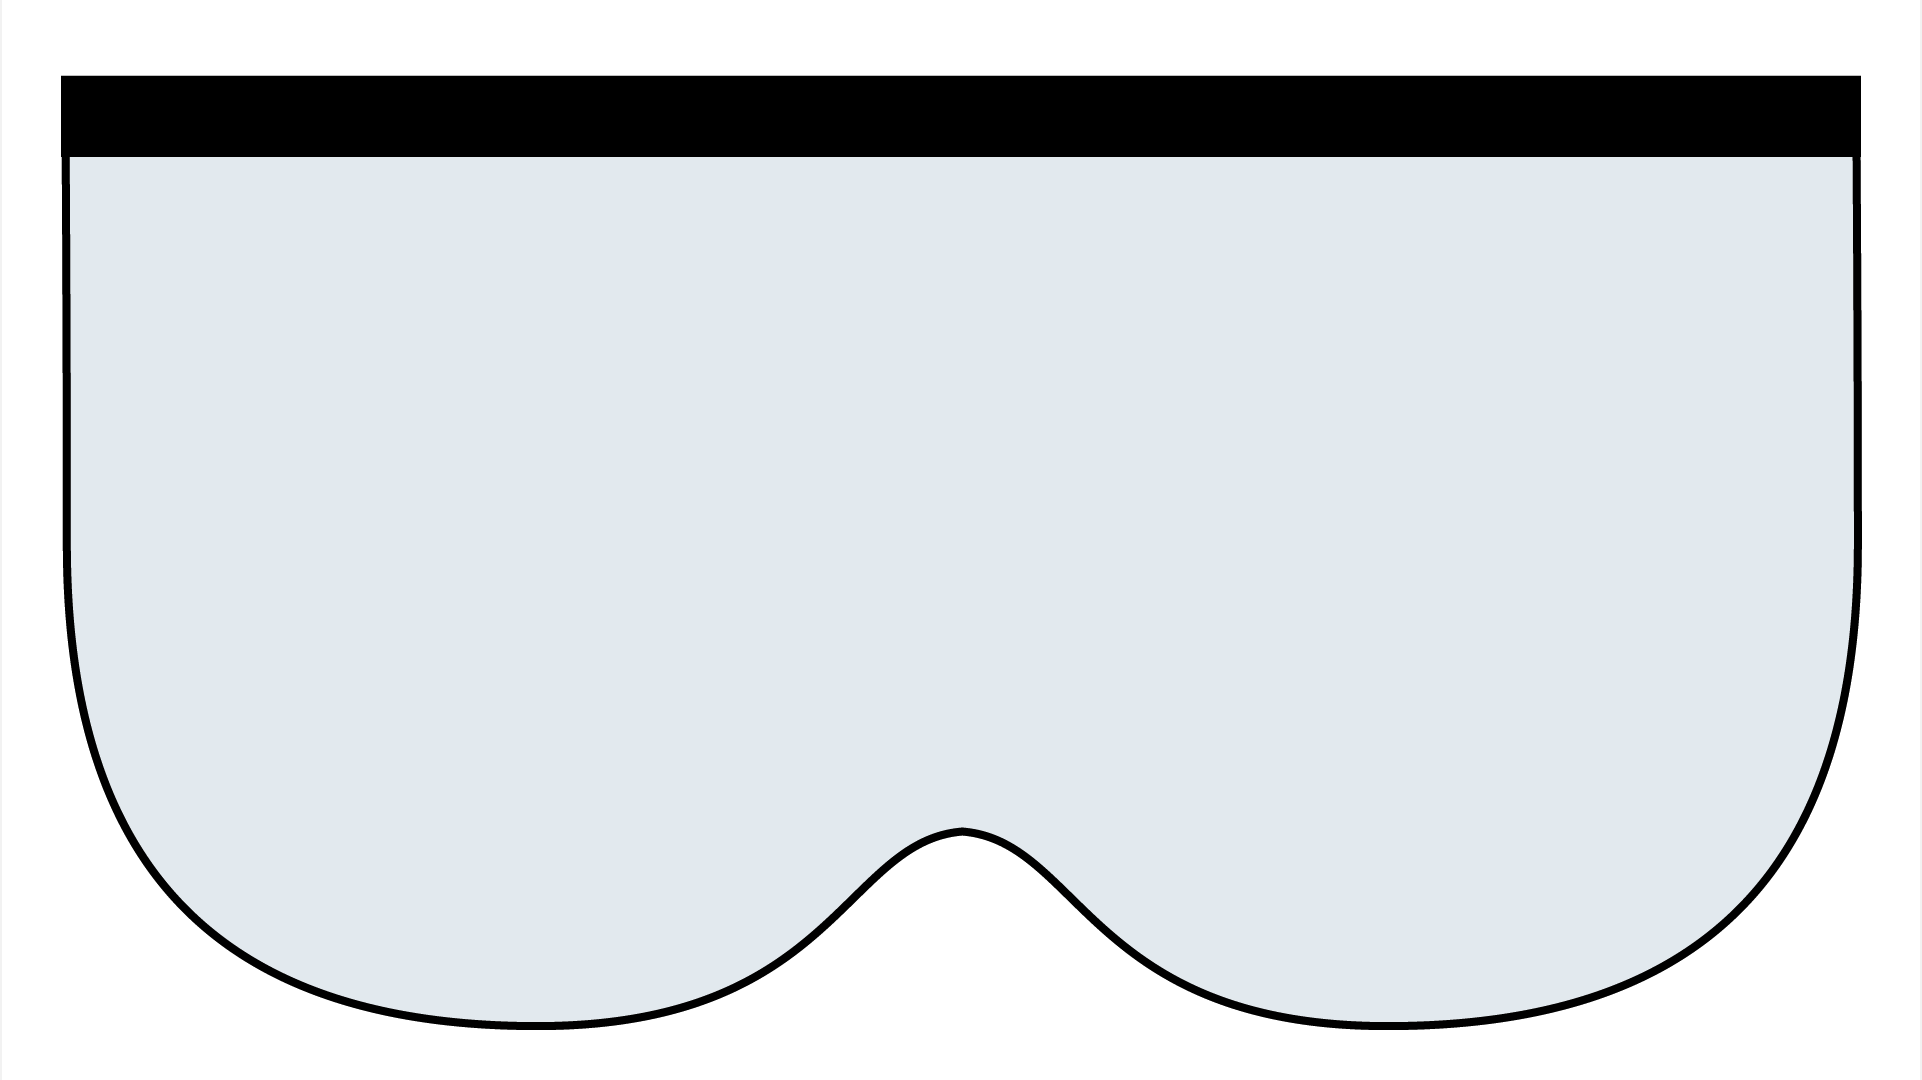
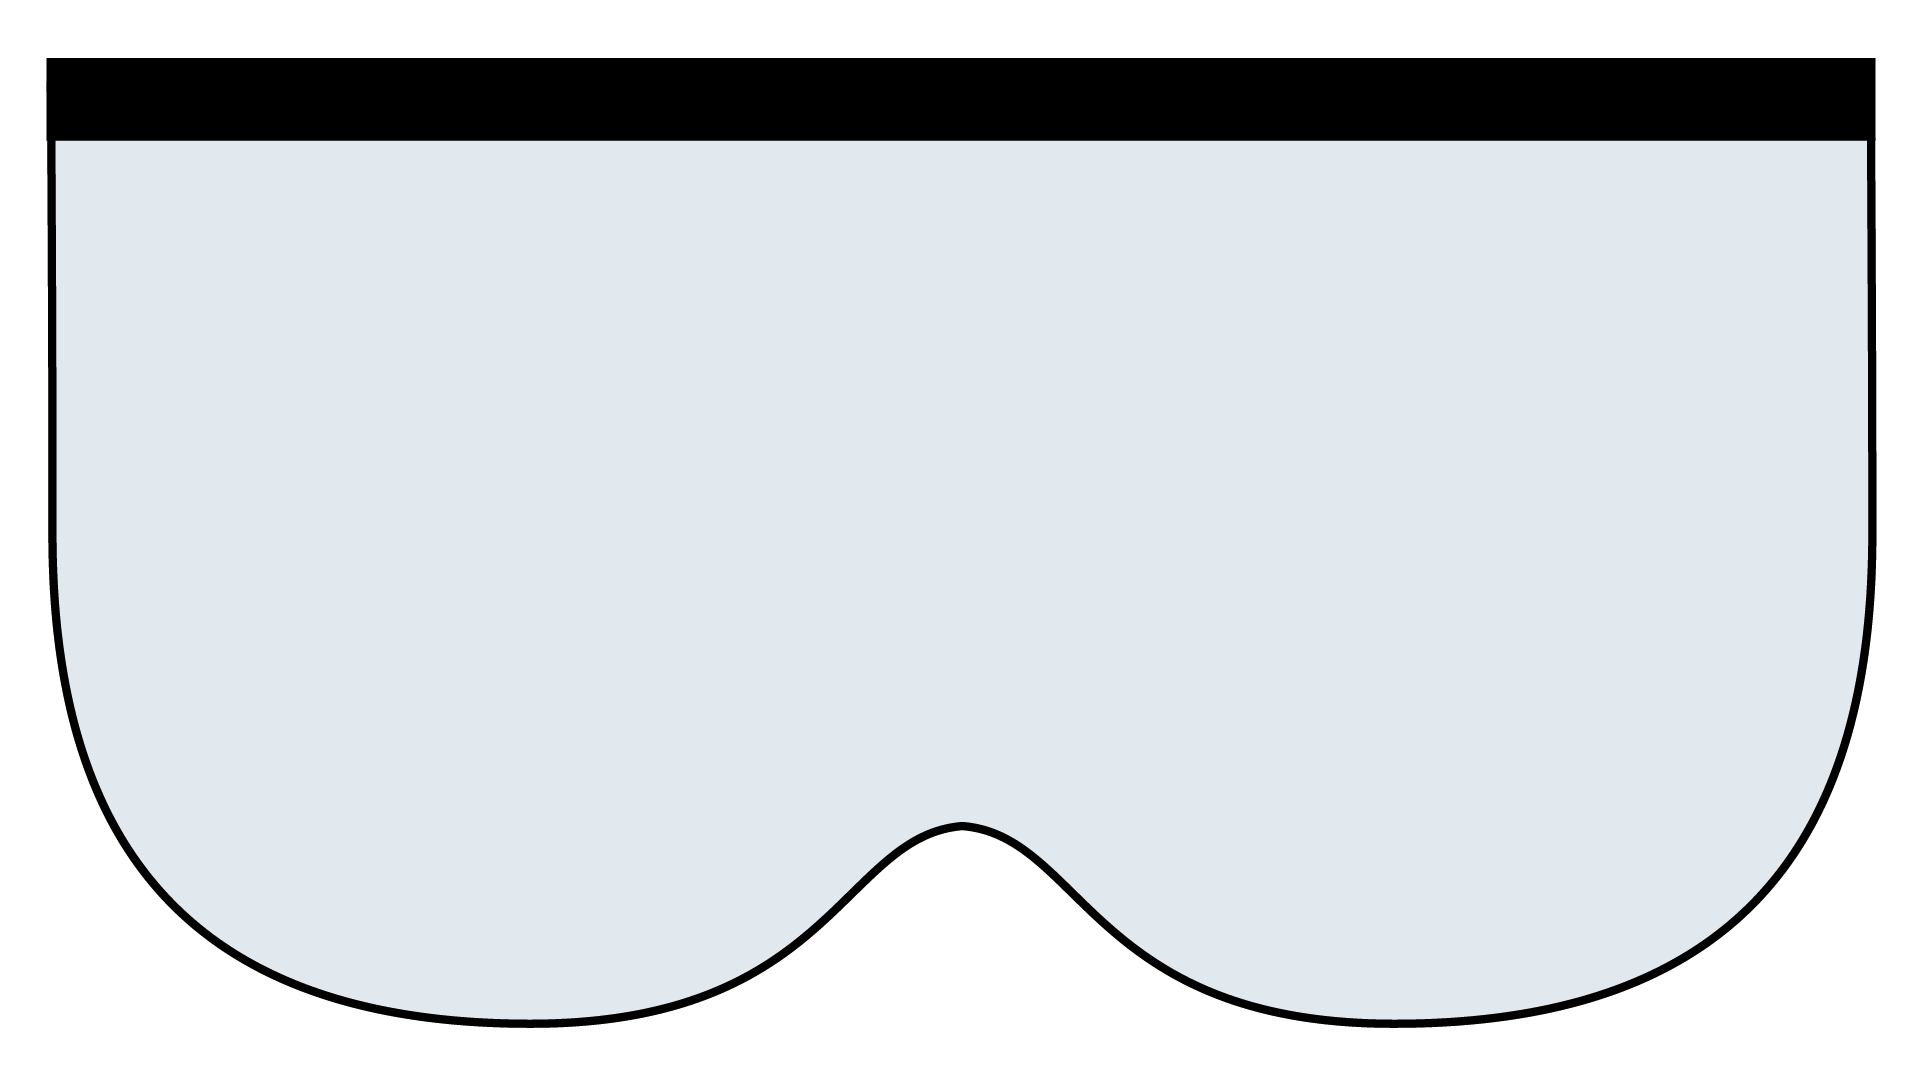
Image ratio fixes, replaced frames

diff --git a/src/app.css b/src/app.css
@@ -1,6 +1,7 @@
 img {
   height: 100vh;
-  width: auto;
+  width: 100vw;
+  object-fit: cover;
 }
 
 h2 {
@@ -16,6 +17,12 @@ h2 {
   h2 {
     font-size: 1.3rem;
   }
+}
+
+.frame {
+  height: 100vh;
+  width: 100vw;
+  object-fit: contain;
 }
 
 .startQuizWrapper {

diff --git a/src/components/ARCarousel.jsx b/src/components/ARCarousel.jsx
@@ -15,7 +15,7 @@ export const ARCarousel = () => {
       }}
     >
       <img
-        className="over-1 absolute"
+        className="over-1 absolute frame"
         src="images/ar-frame.png"
         alt="ar frame"
       />

diff --git a/src/components/MRCarousel.jsx b/src/components/MRCarousel.jsx
@@ -15,7 +15,7 @@ export const MRCarousel = () => {
       }}
     >
       <img
-        className="over-1 absolute"
+        className="over-1 absolute frame"
         src="images/mr-frame.png"
         alt="mr frame"
       />

diff --git a/src/components/VRCarousel.jsx b/src/components/VRCarousel.jsx
@@ -15,7 +15,7 @@ export const VRCarousel = () => {
       }}
     >
       <img
-        className="over-1 absolute"
+        className="over-1 absolute frame"
         src="images/vr-frame.png"
         alt="vr frame"
       />
